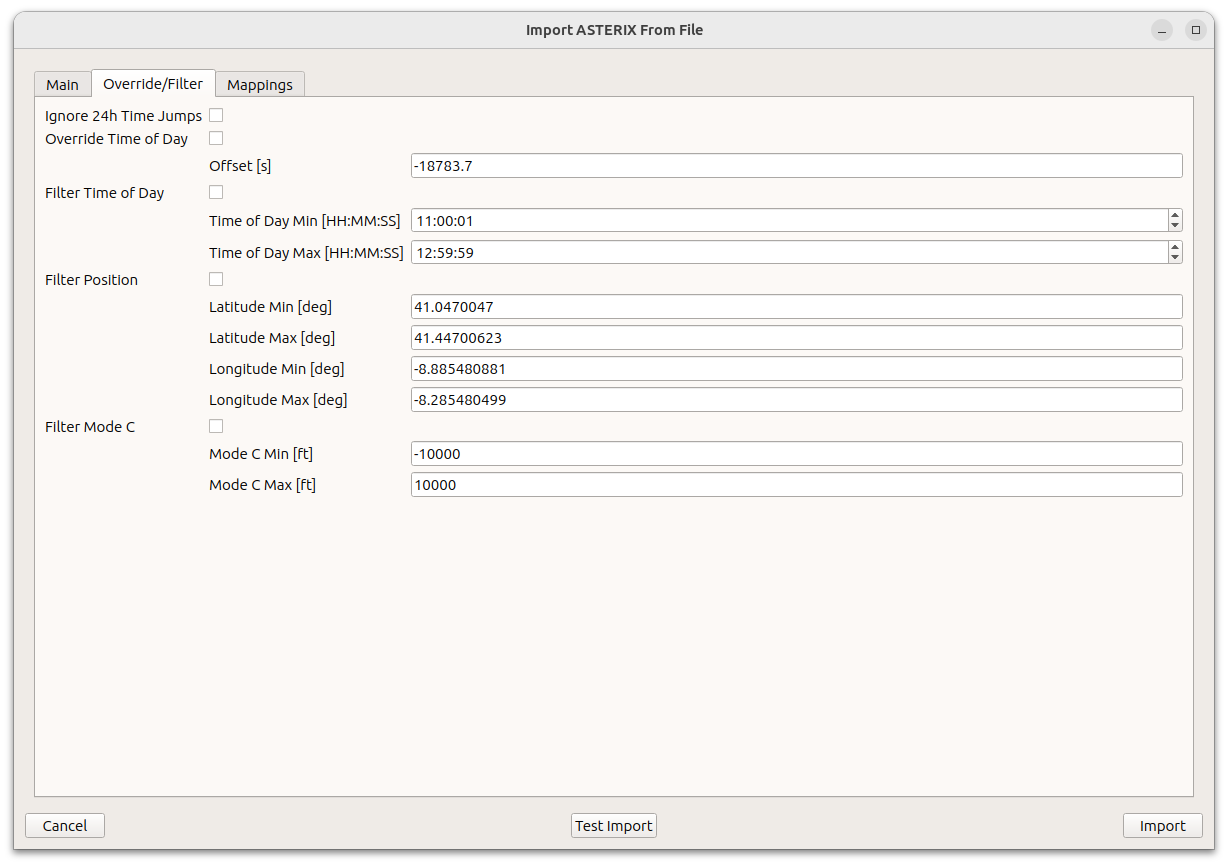
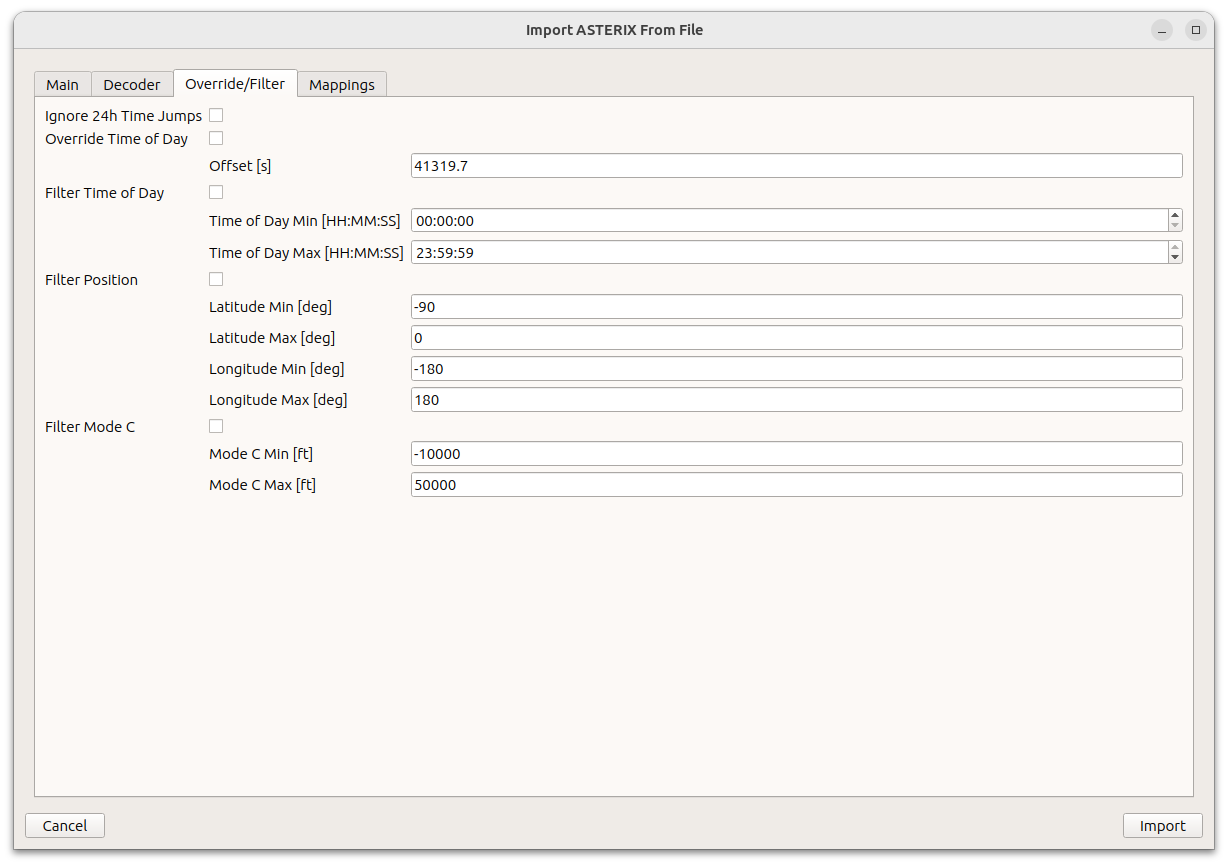
doc update

diff --git a/doc/user_manual/ui_overview/ui_import_asterix.tex b/doc/user_manual/ui_overview/ui_import_asterix.tex
@@ -10,19 +10,22 @@ This task allows importing of ASTERIX data recording files into the opened datab
   \caption{Import ASTERIX data}
 \end{figure}
 
-There exist three tabs:
+There exist four tabs:
 
 \begin{itemize}
-\item Main: File label, input line, jASTERIX decoder settings
+\item Main: File label(s) and status, input line
+\item Decoder: jASTERIX decoder settings
 \item Override / Filter: Data override settings
 \item Mappings: Definition of created database content based on decoded data
 \end{itemize}
 \ \\
 
-Please note that the following framings are currently supported:
+Please note that one or several files can be selected. Since all of the settings are general configuration, please only import several files if they can be imported with the same settings, and do several imports for non-matching files. \\
+
+The following framings are currently supported:
 
 \begin{itemize}
-\item None: Raw, netto, unframed ASTERIX data blocks
+\item Raw/Netto: Unframed ASTERIX data blocks
 \item IOSS: IOSS Final Format
 \item IOSS\_SEQ: IOSS Final Format with sequence numbers
 \item RFF: Comsoft RFF format
@@ -57,7 +60,31 @@ Decoding of ASTERIX CAT002 is recommended if CAT001 data is imported, since the 
 
 \subsubsection{Main Tab}
 
-At the top, the recording file to be imported is shown. Below, there exists a combobox defining in which line the data should be written. \\
+At the top, the recording files to be imported are shown, with the following items existing for each:
+\begin{itemize}
+\item Checkbox: Checkbox to indicate if the file should be imported
+\item Name: Path and filename
+\item Decoding and Error: Indicating possible decoder issues
+\end{itemize}
+\ \\
+
+Below, the following items exist:
+\begin{itemize}
+\item Line ID: Line into which all data should be written
+\item UTC Day: Date of the recording (for all data)
+\item Debug in Console: Additional debugging information is output to the console, and the ASTERIX decoding is switched to single-threading for easier investigation \\
+\end{itemize}
+
+\subsubsection{Decoder}
+
+In this tab, all decoder settings can be configured. Please note that changing the settings will trigger a re-evaluation of the recordings can be imported correctly, therefore changing the information displayed in the main tab.
+
+\begin{figure}[H]
+  \center
+    \hspace*{-0.5cm}
+    \includegraphics[width=17cm]{figures/asterix_import_data_decoder.png}
+  \caption{Import ASTERIX data Decoder}
+\end{figure}
 
 \paragraph{Framing}
 Using the 'Framing' drop-down menu, the current framing can be selected. Using the 'Edit' button, the current framing definition is opened in a text editor.
@@ -85,13 +112,6 @@ Using the 'Edit Categories' button, the ASTERIX definitions file is opened in a 
 
 Using the 'Refresh' button, all of the jASTERIX definitions are re-loaded from harddisk (e.g. to update after file changes were made). \\
 
-
-
-\paragraph{Running}
-Using the 'Debug in Console' checkbox, additional debugging information is output to the console, and the ASTERIX decoding is switched to single-threading for easier investigation. \\
-
-The 'Cancel' button aborts the import. Using the 'Test Import' button the import process can be tested without inserting the data into the database. 
-The 'Import' button triggers the import of the selected file into into the database with the given options. This function can be run multiple times. \\
 
 \subsubsection{Override / Filter Tab}
 \label{sec:task_import_asterix_override}
@@ -166,6 +186,8 @@ Using the 'Show DBContent Variable' button the variable can be inspected in deta
 \end{figure}
 
 \subsubsection{Running}
+
+The 'Cancel' button aborts the import.  The 'Import' button triggers the import of the selected files into into the database with the given options, but is only available if all selected files can be decoded correctly. \\
 
 Using the 'Import' button the import task can be performed. During import a status indication will be shown. \\
 
